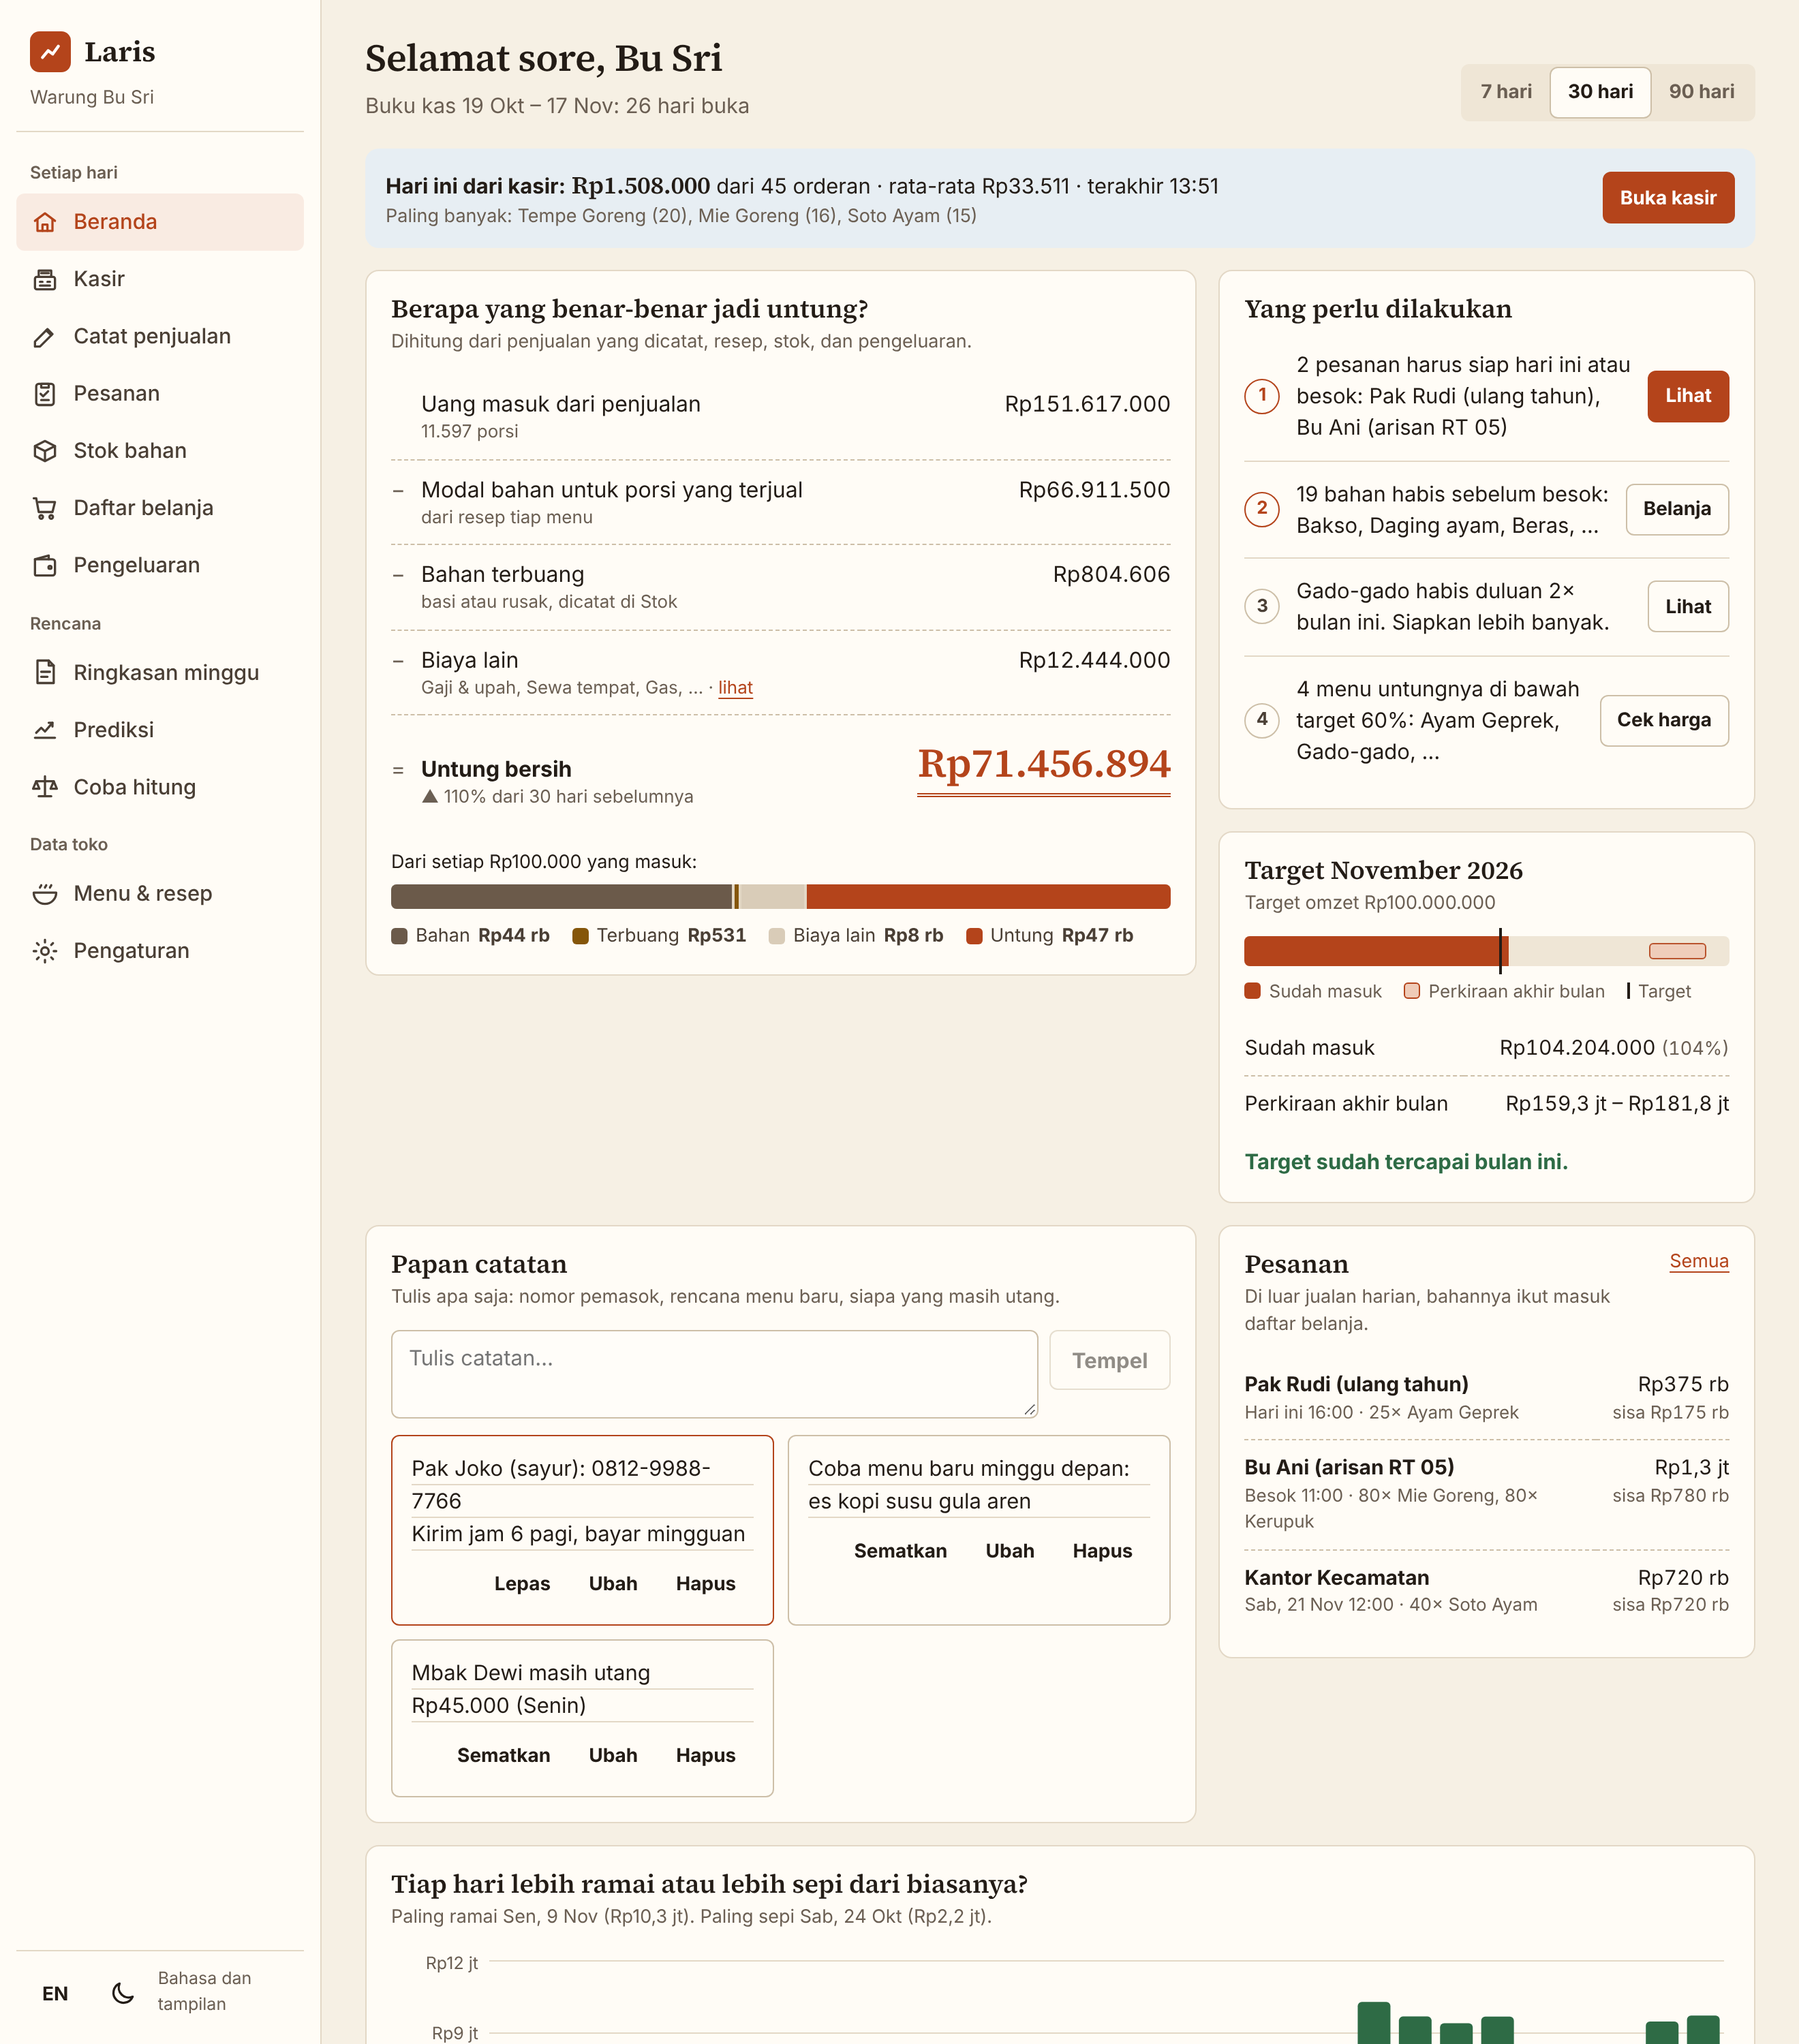
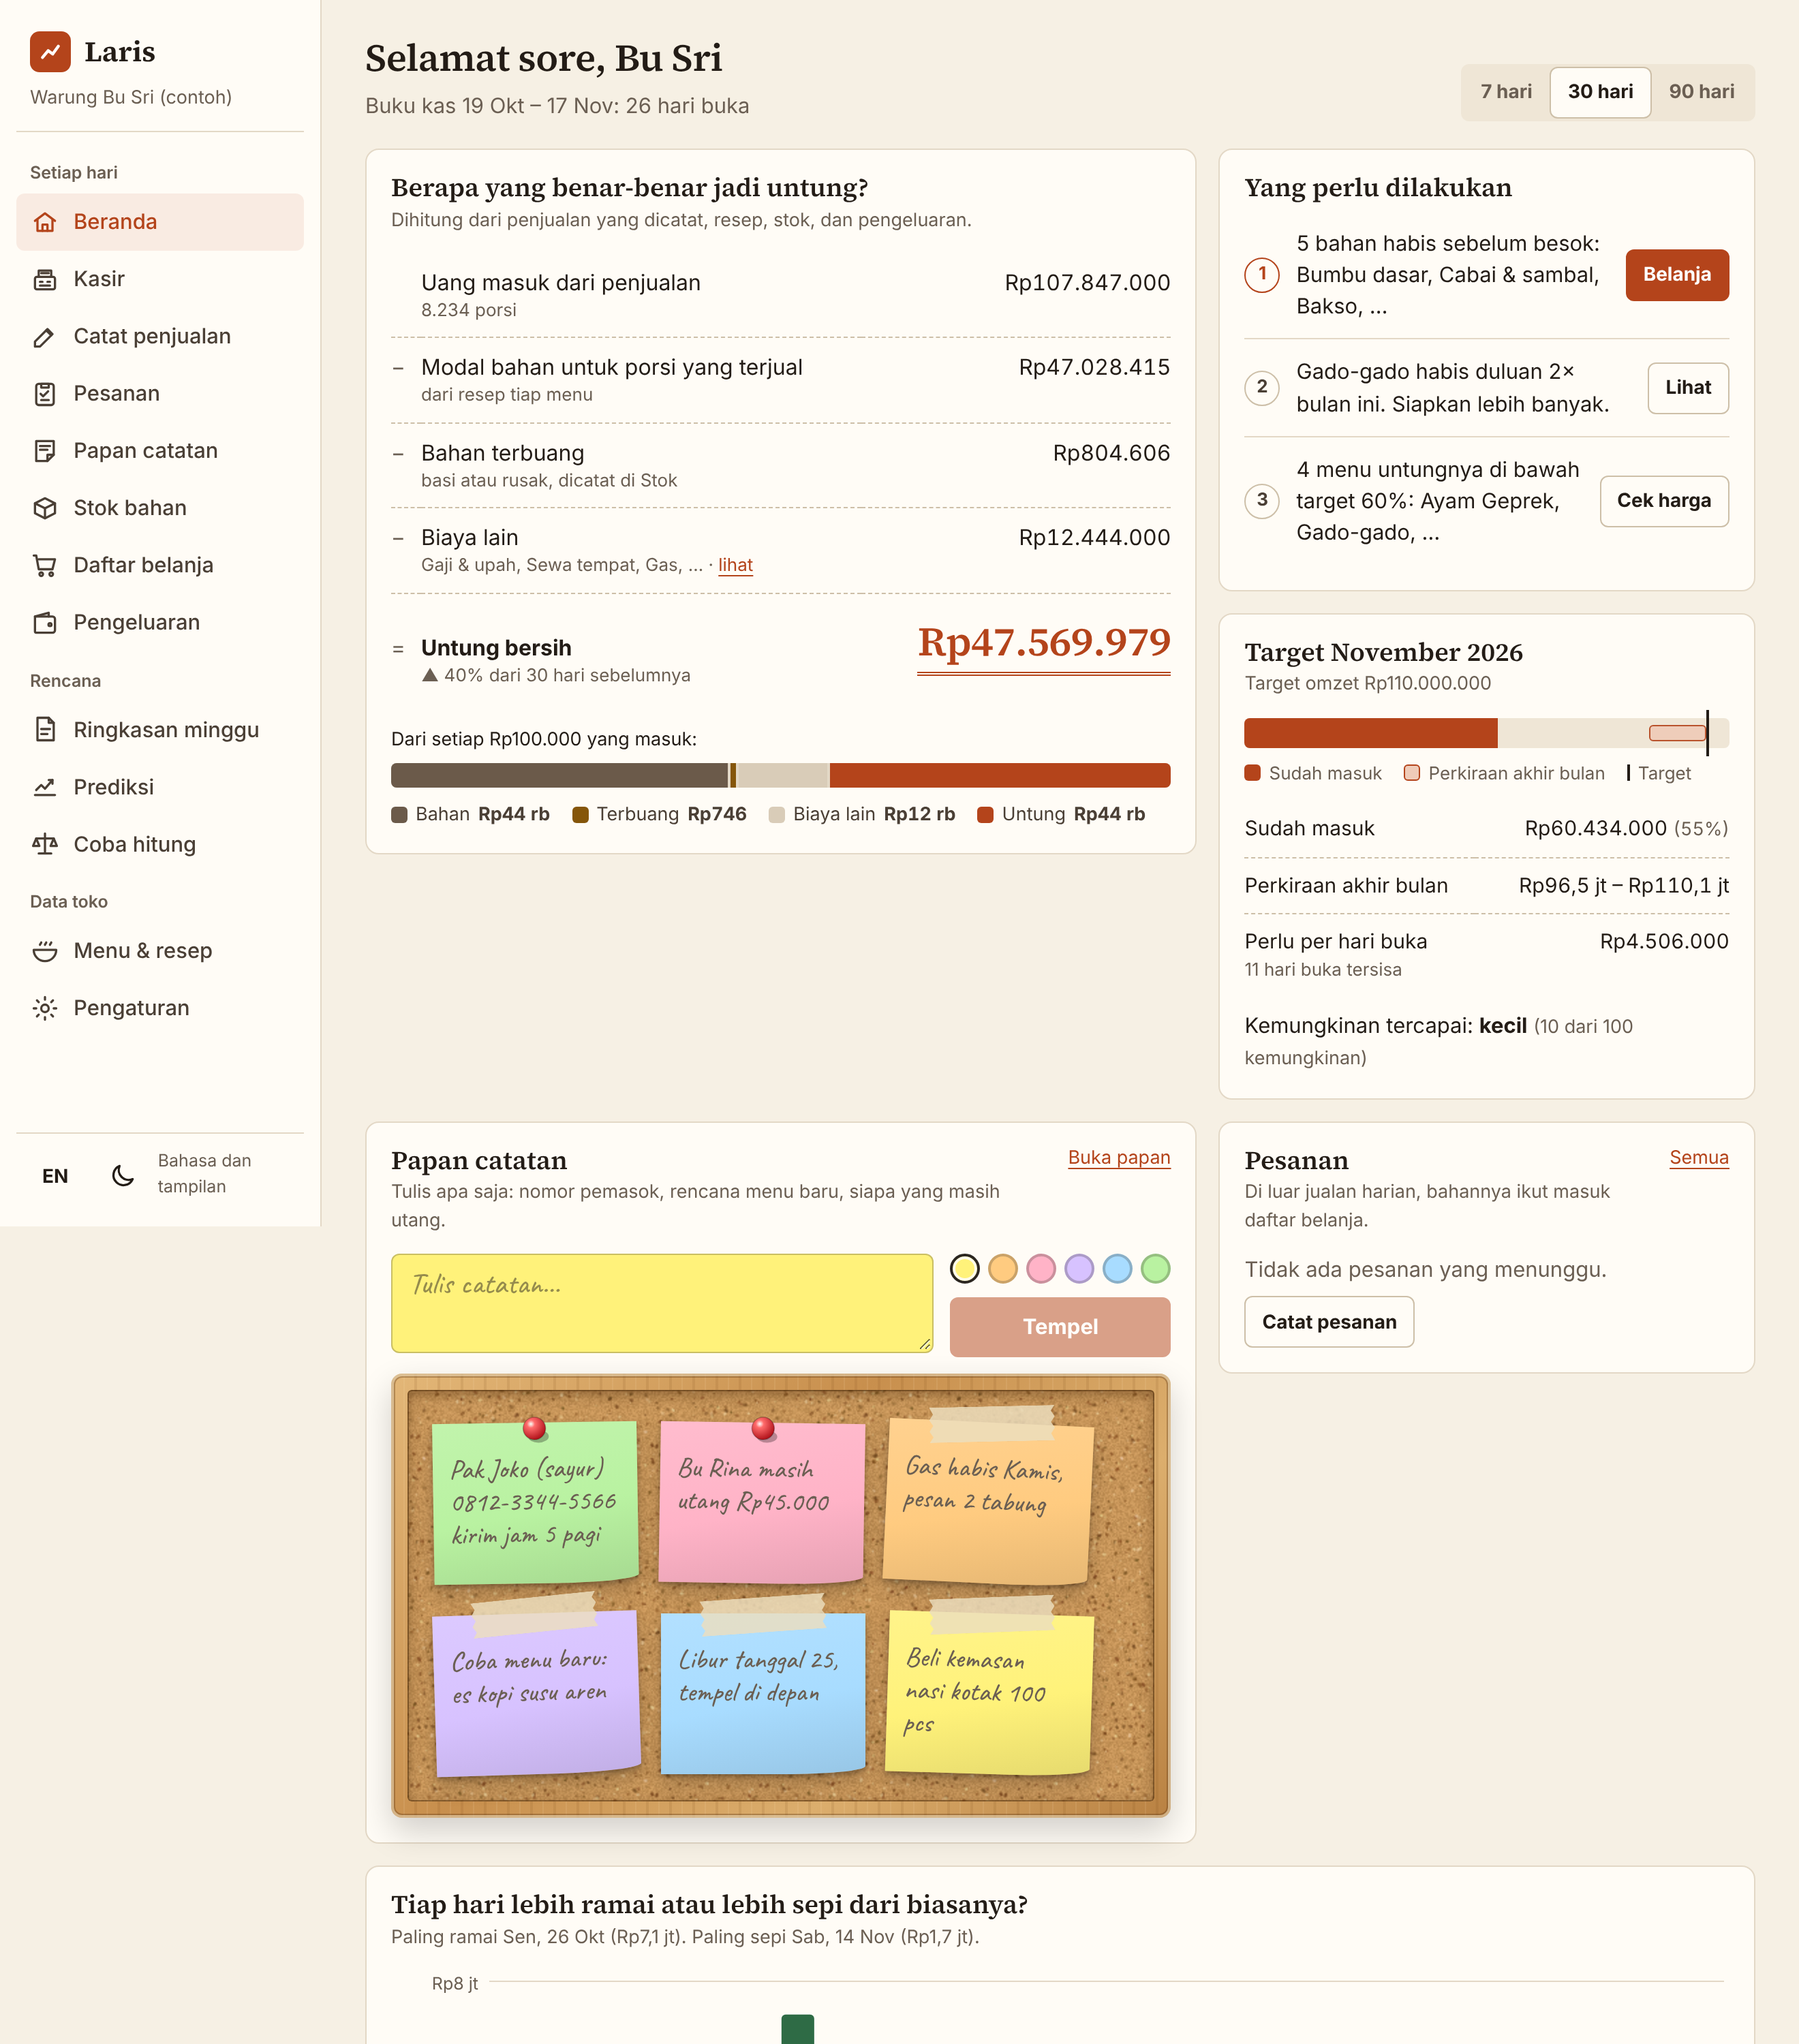
README: full feature list (reports, own ingredients, cork notes board, start over, backups), new screenshots

diff --git a/frontend/src/styles.css b/frontend/src/styles.css
@@ -143,6 +143,7 @@ main { padding: 26px 32px 56px; max-width: 1200px; width: 100%; }
 /* ---------- sheets (cards) */
 .card { background: var(--sheet); border: 1px solid var(--rule); border-radius: var(--r); }
 .card.pad { padding: 18px; }
+.card-head > a { white-space: nowrap; }
 .card-head { display: flex; align-items: flex-start; justify-content: space-between; gap: 10px; padding: 16px 18px 0; }
 .card-head p { margin-top: 3px; }
 .card-body { padding: 14px 18px 18px; }

diff --git a/README.md b/README.md
@@ -33,37 +33,83 @@ into answers to three questions:
 <p align="center"><img src="docs/screenshots/phone-kasir.png" width="200" alt="Taking payment at the till on a phone">
 <img src="docs/screenshots/phone-pesanan.png" width="200" alt="Special orders on a phone">
 <img src="docs/screenshots/phone-belanja.png" width="200" alt="Shopping list on a phone">
-<img src="docs/screenshots/phone-ringkasan.png" width="200" alt="Weekly summary on a phone"></p>
+<img src="docs/screenshots/phone-laporan.png" width="200" alt="Downloading a weekly, monthly or yearly report on a phone"></p>
 
-Also in the app:
+## Features
 
-- **Till (kasir):** tap items, take cash/QRIS/transfer with change worked out, save. Each order adds
-  to the day's totals, so stock, the dashboard and the forecast follow the till. Several phones
-  can sell at once; the dashboard shows today's live numbers and the busiest hours.
-- **Special orders (pesanan):** boxed meals and catering with customer, due date, down payment and
-  status. Their ingredients are added to the shopping list before they are due; they are kept out
-  of the forecast's history.
-- **Notes board**: sticky notes on a cork board, dragged anywhere, in six paper colours, pinned ones first on the dashboard.
-- **Sign-up wizard** that asks for the shop's name, owner, type (warung makan, café, or kios /
-  toko kelontong), open days, shopping habit, monthly target and wished margin, then starts from
-  sample data, a sample menu or sample goods, or empty.
+**Recording sales**
+
+- **Till (kasir):** tap items, take cash, QRIS or transfer with the change worked out, save, cancel
+  if needed. Each order adds to the day's totals, so stock, the dashboard and the forecast follow
+  the till. Several phones can sell at once; the dashboard shows today's live numbers and the
+  busiest hours.
+- **Daily totals:** shops without a till type how many portions of each item sold, in the evening.
+  Closed days, regular days off, sold-out items and promotions are marked so the forecast learns
+  from them correctly.
+- **Special orders (pesanan):** boxed meals and catering with customer, WhatsApp number, due date
+  and time, down payment and status. Their ingredients are added to the shopping list before they
+  are due; finished orders count in the money but stay out of the forecast's history.
+
+**Money**
+
+- **Cash book:** sales down to net profit (ingredients used, waste, and other costs), and how each
+  Rp100,000 that comes in splits into ingredients, waste, costs and profit.
+- **Expenses** (gas, electricity and water, rent, wages, packaging, transport) so net profit is real.
+- **Monthly target** with progress, the likely month end, the chance of reaching it and what is
+  needed per open day.
 - **Simple costing:** "I spend Rp120,000 and it makes 30 portions" sets the cost per portion;
   linking ingredients is optional and only needed for automatic stock.
-- **Expenses** (gas, electricity, rent, wages, packaging, fuel) so net profit is real.
-- **Weekly summary** in plain sentences: what rose, what fell, best sellers, what needs attention,
-  sales tips for next week, expected sales and most urgent purchases, copied to WhatsApp in one tap.
+- **Price suggestions** from the cost per portion and the wished margin (10–90%).
 - **What if:** a new price or a promotion for one item, compared with the current forecast for
   the next 4 weeks. The promotion effect comes from the model; the price effect uses a rough
   price sensitivity the owner picks, and the page says so.
-- **Price suggestions** from the cost per portion and the wished margin.
+
+**Stock and shopping**
+
+- **Ingredient stock** goes down by itself with every sale. Purchases, waste and stock counts are
+  one tap each, and every movement is listed.
+- **The owner's own ingredients:** add new ones, edit name, pack and price, hide those no longer
+  used (and bring them back), or remove them from every recipe. Ingredients with purchase history
+  are hidden rather than deleted, so old records keep their names.
+- **Shopping list** per trip, from the forecast, the recipes and the special orders, with the
+  reason for each item, copied to WhatsApp in one tap.
+
+**Reports**
+
+- **Weekly summary** in plain sentences: what rose, what fell, best sellers, what needs attention,
+  sales tips for next week, expected sales and most urgent purchases, copied to WhatsApp.
+- **CSV reports for a week, a month or a year,** named after the shop
+  (`Warung Bu Sri-hasil seminggu.csv`, `…-hasil sebulan November 2026.csv`,
+  `…-hasil setahun 2026.csv`). Each has the money summary, a plain-words note for every week
+  (up or down on the week before, best seller, busiest day, items that sold out early, days not
+  recorded, days closed), results per day or per month, per menu item and per expense type. They
+  open in Excel or Google Sheets, in Indonesian or English. All sales since the start can also be
+  downloaded as one table.
+
+**Every day**
+
+- **Notes board:** sticky notes on a cork board for a supplier's number, a new dish idea, or who
+  still owes money. Drag them anywhere (mouse, finger or arrow keys), pick one of six paper colours,
+  pin the important ones; pinned notes come first in the strip on the dashboard.
+
+**Setting up and keeping data safe**
+
+- **Sign-up wizard** for new shops: name, owner, type (warung makan, café, or kios / toko
+  kelontong), open days, shopping habit, monthly target and wished margin, then the menu actually
+  sold (picked from a sample menu with the owner's prices, typed in, or sample data to try first).
+  Settings → **Start over** wipes the shop after a backup to go through it again.
+- **Backups:** a daily copy on the laptop (30 kept), an optional second folder (flash drive or
+  Google Drive), and restore from the laptop window.
 - **Light and dark** display and **Indonesian or English**.
 - **Kios / toko kelontong:** each good is its own stock. The model has only seen warung and café
   patterns, so a kios is forecast with the warung pattern; the in-app backtest shows how well that
   fits after four weeks.
 
+![Notes board: sticky notes on cork](docs/screenshots/notes-board.png)
+
 ![Dashboard in dark mode, in English](docs/screenshots/dashboard-dark-en.png)
 
-<p align="center"><img src="docs/screenshots/desktop-window.png" width="300" alt="The Laris window on the shop laptop: address, QR code for phones, backups"></p>
+<p align="center"><img src="docs/screenshots/desktop-window.png" width="300" alt="The Laris control window on the shop laptop: QR code for phones, backups"></p>
 
 The app is built for phones first. On a shop laptop it is one Windows installer; it also runs
 with `docker compose up`, or online (Render + Neon). The model runs on CPU through onnxruntime,
@@ -198,7 +244,9 @@ risk and a plain-language reason for each item, and copies to WhatsApp in one ta
   and install it. Laris opens in its own window (Edge or Chrome app mode at
   `laris.localhost`, no address bar). A small control window shows a QR code for phones on the same
   WiFi, makes a daily backup to Documents (plus an optional flash drive or Google Drive folder),
-  restores a backup, and resets the password. Guide in Indonesian: [docs/PASANG.md](docs/PASANG.md).
+  restores a backup, and resets the password. The app only reuses a Laris that runs on its own
+  data folder, so an older Docker or development copy on the same port is left alone.
+  Guide in Indonesian: [docs/PASANG.md](docs/PASANG.md).
   The installer is built and self-tested by [`windows.yaml`](.github/workflows/windows.yaml)
   (PyInstaller + Inno Setup); a `v*` tag attaches it to a release.
 - **Docker:**
@@ -231,8 +279,8 @@ python -m laris_ml.evaluate --model models/larisnet
 ```
 ml/laris_ml/        calendar_id (Indonesian calendar), synth (simulator), features, model, trainset,
                     train, evaluate, baselines, forecast (onnxruntime), plan (scenarios + shopping list)
-backend/laris_api/  FastAPI: auth, records, stock ledger, expenses, analytics, weekly summary,
-                    forecasts and what-if, demo data
+backend/laris_api/  FastAPI: auth, records, till and special orders, stock ledger, expenses, analytics,
+                    weekly summary, CSV reports, notes, backups, forecasts and what-if, demo data
 frontend/src/       React + TypeScript + Recharts, mobile-first, Indonesian and English, light and dark
 models/larisnet/    model.onnx + meta.json + eval results (the app's model)
 notebooks/          training on Colab / Kaggle GPUs
@@ -250,13 +298,16 @@ docs/               owner guide, laptop install guide, deployment (all ID)
 - **Backend:** API tests (sign-up profile, auth, sales booking ingredients, stock counts,
   closures and regular days off, expenses and net profit, demo, forecasts, plan, weekly summary,
   monthly target, what-if, till orders and cancelling, special orders in stock, profit and the
-  shopping list, notes, backups, old databases gaining new columns, CSV export) run on both SQLite
-  and PostgreSQL. The desktop app has a `--selftest` that CI runs on the bundled Windows build.
+  shopping list, notes and their place on the board, backups, starting over, own ingredients and
+  removing them, weekly/monthly/yearly reports, old databases gaining new columns, CSV export) run
+  on both SQLite and PostgreSQL. The desktop app has a `--selftest` that CI runs on the bundled Windows build.
 - **Web:** every Indonesian text has an English entry (checked in the build), type-checked build,
   then a Playwright run against a new shop: it goes through the sign-up wizard, opens every page
   on a phone in light mode, on a desktop in dark mode and in English, records a sale, buys stock,
-  records and deletes an expense, sells and cancels at the till, finishes a special order, pins a
-  note, runs a what-if, switches theme and language, and fails on
+  records and deletes an expense, downloads the week, month and year reports, adds, renames and
+  removes an ingredient, sells and cancels at the till, finishes a special order, pins a note and
+  drags it across the cork board (its place and colour must survive a reload), runs a what-if,
+  switches theme and language, and fails on
   console errors, failed API calls, missing English texts or sideways scrolling.
 - **Docker:** the image is built and smoke-tested, checking that the model is loaded and the
   forecast comes from LarisNet.
